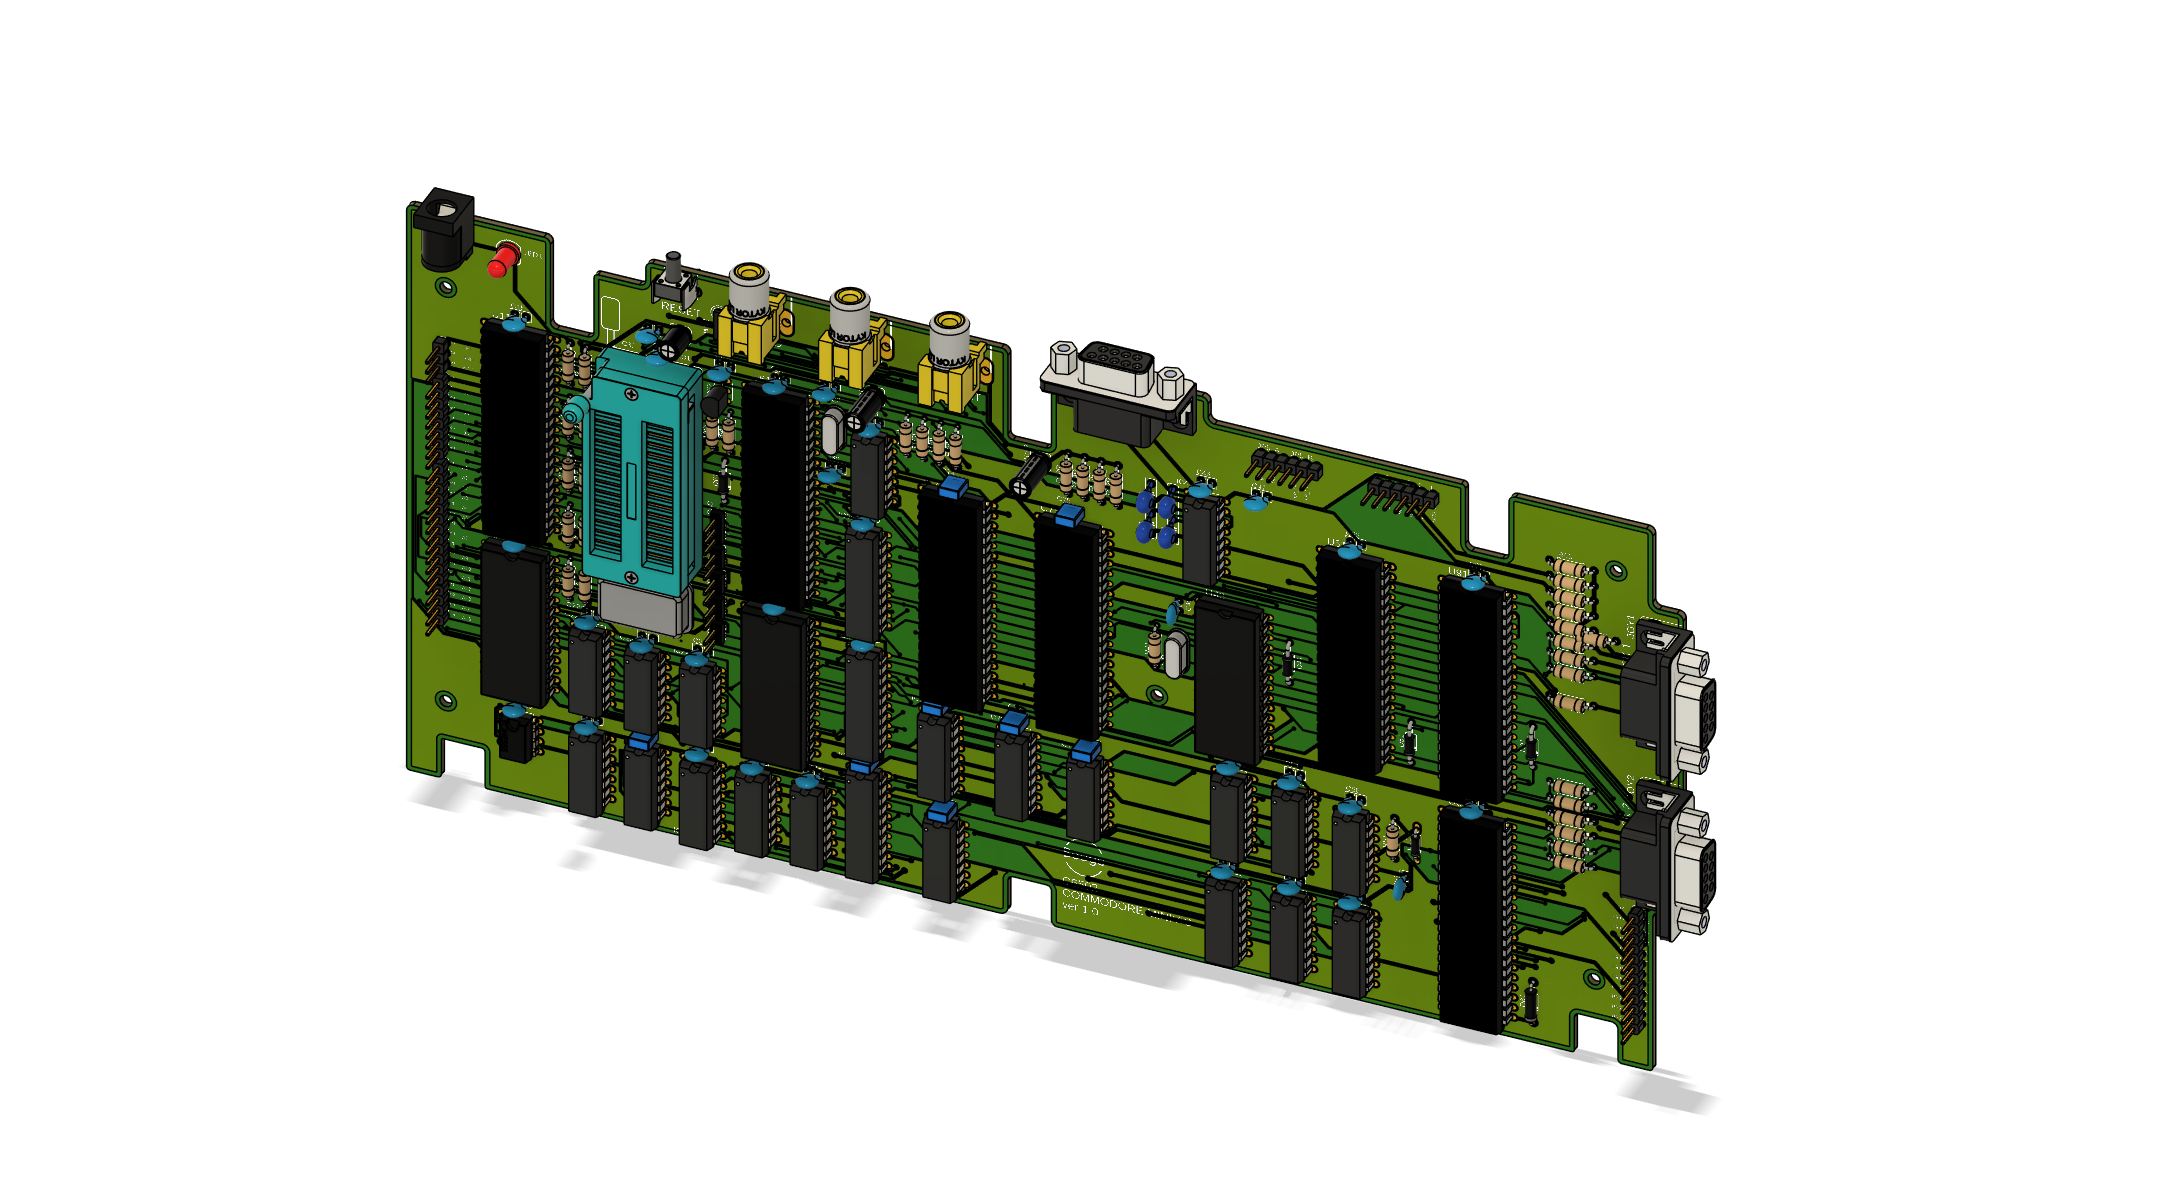
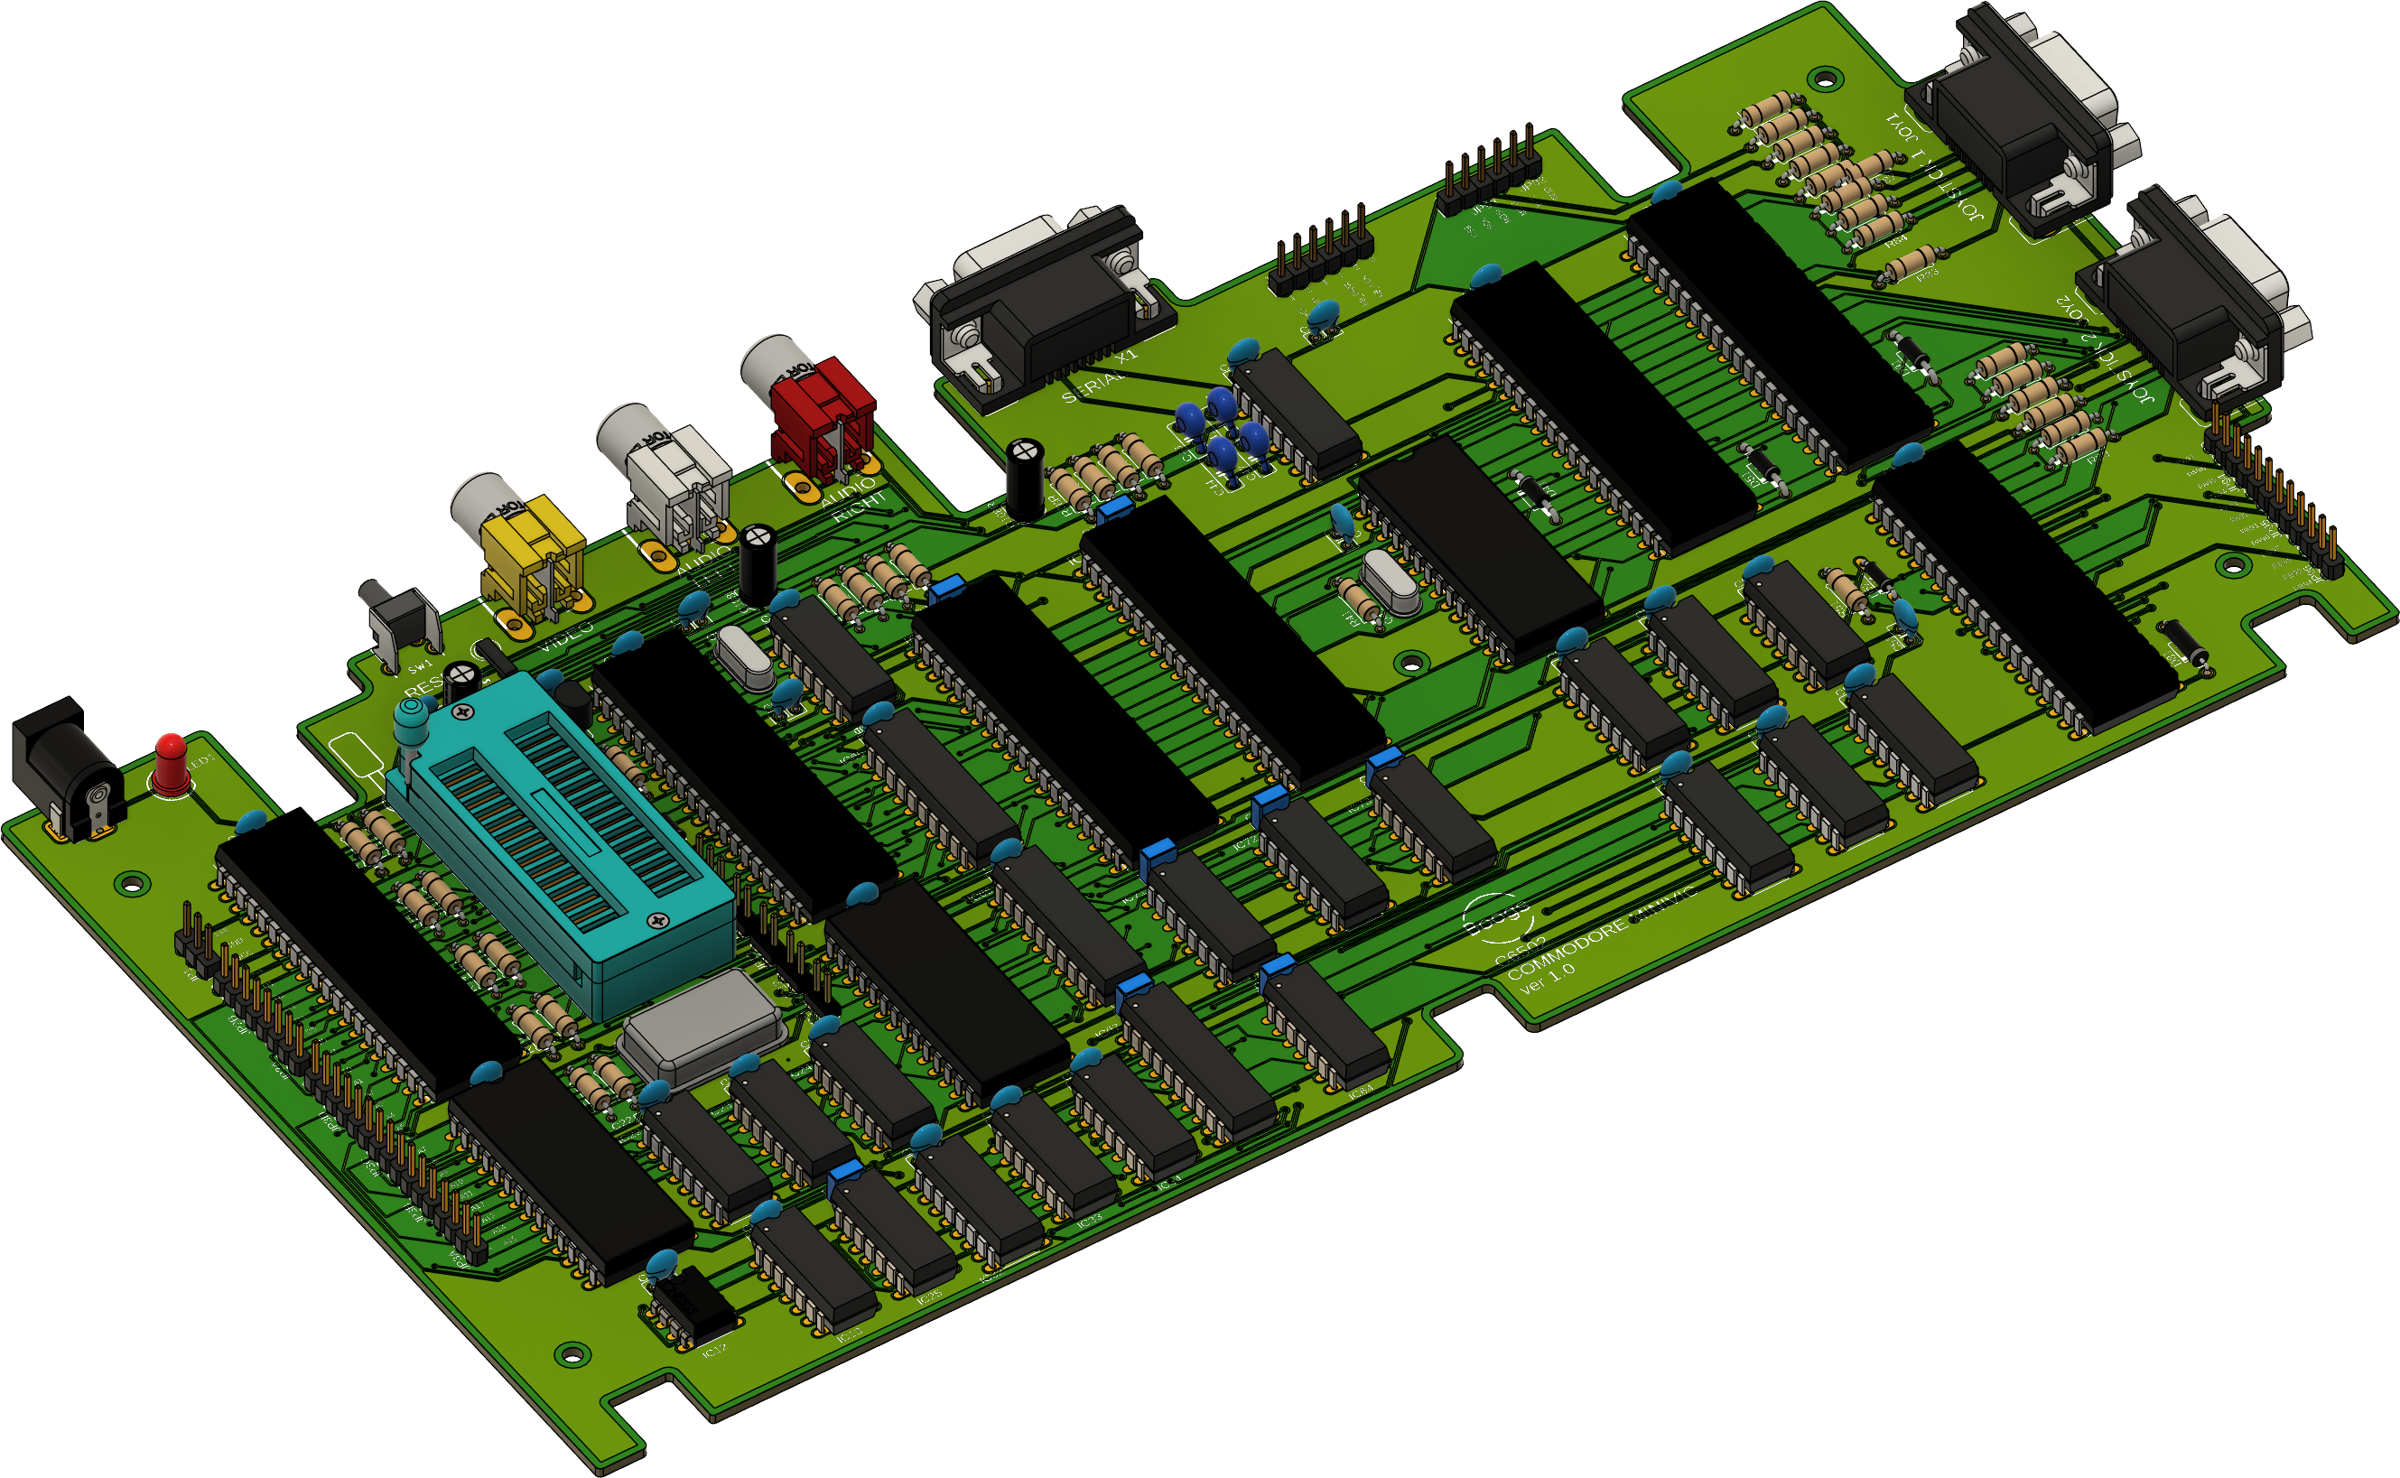
README: real board photos, R87 known issue, full BOM, new renders
- Gallery: photos of the assembled and bare PCB; renders updated with
  white (left) and red (right) RCA connectors
- Known Issue: R87 footprint is not in line, mounted as is, board works
- BOM: all values and quantities, DIP sockets and the EEPROM;
  bom/miniVIC_BOM.csv with the designators

diff --git a/README.md b/README.md
@@ -139,8 +139,59 @@ The screen edition has cream paper and colour pictures, the print edition white 
 
 ## 📋 Bill of Materials (BOM)
 
+195 parts in total, including the IC sockets and the EEPROM. The complete list, with the designators, is in [`bom/miniVIC_BOM.csv`](bom/miniVIC_BOM.csv).
+
+### Integrated circuits
 | Component | Description | Quantity |
 | :--- | :--- | :--- |
+| **W65C02S** | CMOS 8-bit Microprocessor | 1 |
+| **HM62256** | 32K x 8 Static RAM (RAM and VRAM) | 2 |
+| **28C256** | 32K x 8 EEPROM (on a 28-pin ZIF socket) | 1 |
+| **TMS9918A** | Video Display Processor | 1 |
+| **AY-3-8910** | Programmable Sound Generator | 2 |
+| **W65C22 (VIA)** | Versatile Interface Adapter (keyboard, joysticks, SD) | 3 |
+| **W65C51 (ACIA)** | Asynchronous Communications Interface Adapter | 1 |
+| **MAX232** | RS-232 Line Driver | 1 |
+| **NE555** | Timer (Reset Circuit) | 1 |
+| **74AC138** | 3-to-8 Decoder | 7 |
+| **74HC08** | Quad AND Gate | 4 |
+| **74HCT00** | Quad NAND Gate | 2 |
+| **74HC32** | Quad OR Gate | 1 |
+| **74HCT04 / 74HC04** | Hex Inverter | 1 + 1 |
+| **74HCT14** | Hex Schmitt Trigger Inverter | 1 |
+| **74HCT595** | 8-bit Shift Register | 2 |
+| **74HC574** | Octal D Flip-Flop | 2 |
+| **74HC245** | Octal Bus Transceiver | 1 |
+
+### Passive components
+| Component | Value | Quantity |
+| :--- | :--- | :--- |
+| **Resistors** (0207, axial) | 75 Ohm · 330 Ohm · 470 Ohm | 1 · 2 · 1 |
+| | 1k · 3.3k · 4.7k | 7 · 5 · 12 |
+| | 10k · 15k · 47k · 1M | 6 · 1 · 1 · 2 |
+| **Ceramic capacitors** | 20p · 33p | 1 · 2 |
+| | 100n (decoupling) | 38 |
+| | 1u | 4 |
+| **Electrolytic capacitors** | 10uF | 3 |
+| **Diodes** | SB140 (Schottky) · 1N4148 | 5 · 1 |
+| **Ferrite bead** | | 1 |
+
+### Other components
+| Component | Description | Quantity |
+| :--- | :--- | :--- |
+| **2N4401** | NPN Transistor (video output) | 1 |
+| **LED** | Red 5mm (power) | 1 |
+| **Oscillator** | 1 MHz, DIL14 | 1 |
+| **Crystals** | 10.738635 MHz (video), 1.8432 MHz (serial) | 1 + 1 |
+| **IC sockets** | DIP 40 pin · 28 pin · 20 pin · 16 pin · 14 pin · 8 pin (one per IC) | 7 · 3 · 3 · 10 · 10 · 1 |
+| **ZIF socket** | 28 pin, for the 28C256 EEPROM | 1 |
+| **Connectors** | DB9 female (serial, 2x joystick) | 3 |
+| | RCA (video yellow, audio left white, audio right red) | 3 |
+| | DIN5 keyboard, SD card module, DC jack (SPC4078) | 1 + 1 + 1 |
+| **Switch** | Tactile push-button (reset) | 1 |
+| **Pin headers and jumpers** | expansion, keyboard, SD, video and cassette jumpers | 17 + 2 |
+
+--- | :--- | :--- |
 | **W65C02S** | CMOS 8-bit Microprocessor | 1 |
 | **HM62256** | 32K x 8 Static RAM (RAM and VRAM) | 2 |
 | **28C256** | 32K x 8 EEPROM (on a 28-pin ZIF socket) | 1 |
@@ -166,6 +217,14 @@ The screen edition has cream paper and colour pictures, the print edition white 
 
 ---
 
+## ⚠ Known Issue (PCB ver 1.0)
+
+The footprint of resistor **R87**, one of the joystick pull-up resistors, is placed incorrectly on the PCB: it is not in line with the others. The resistor was mounted anyway, in the position the board gives it, and the board works normally.
+
+The board has been tested with the resistor as mounted and works.
+
+---
+
 ## 🔗 Useful Links & Resources
 
 * **Manual:** [miniVIC Operation Manual (IT/EN)](https://github.com/Boogs77/miniVIC-manual) · [BO6502 Operation Manual](https://github.com/Boogs77/BO6502-manual)
@@ -183,7 +242,14 @@ The screen edition has cream paper and colour pictures, the print edition white 
 
 ## 🖼 Project Gallery
 
-PCB ver 1.0: 3D render and copper layout.
+PCB ver 1.0: the real board, assembled and bare.
+
+<p align="center">
+  <img src="gallery/miniVIC_board_assembled.jpg" width="30%" />
+  <img src="gallery/miniVIC_board_bare.jpg" width="30%" />
+</p>
+
+3D render and copper layout.
 
 <p align="center">
   <img src="gallery/miniVIC_pcb_3d.png" width="45%" />
